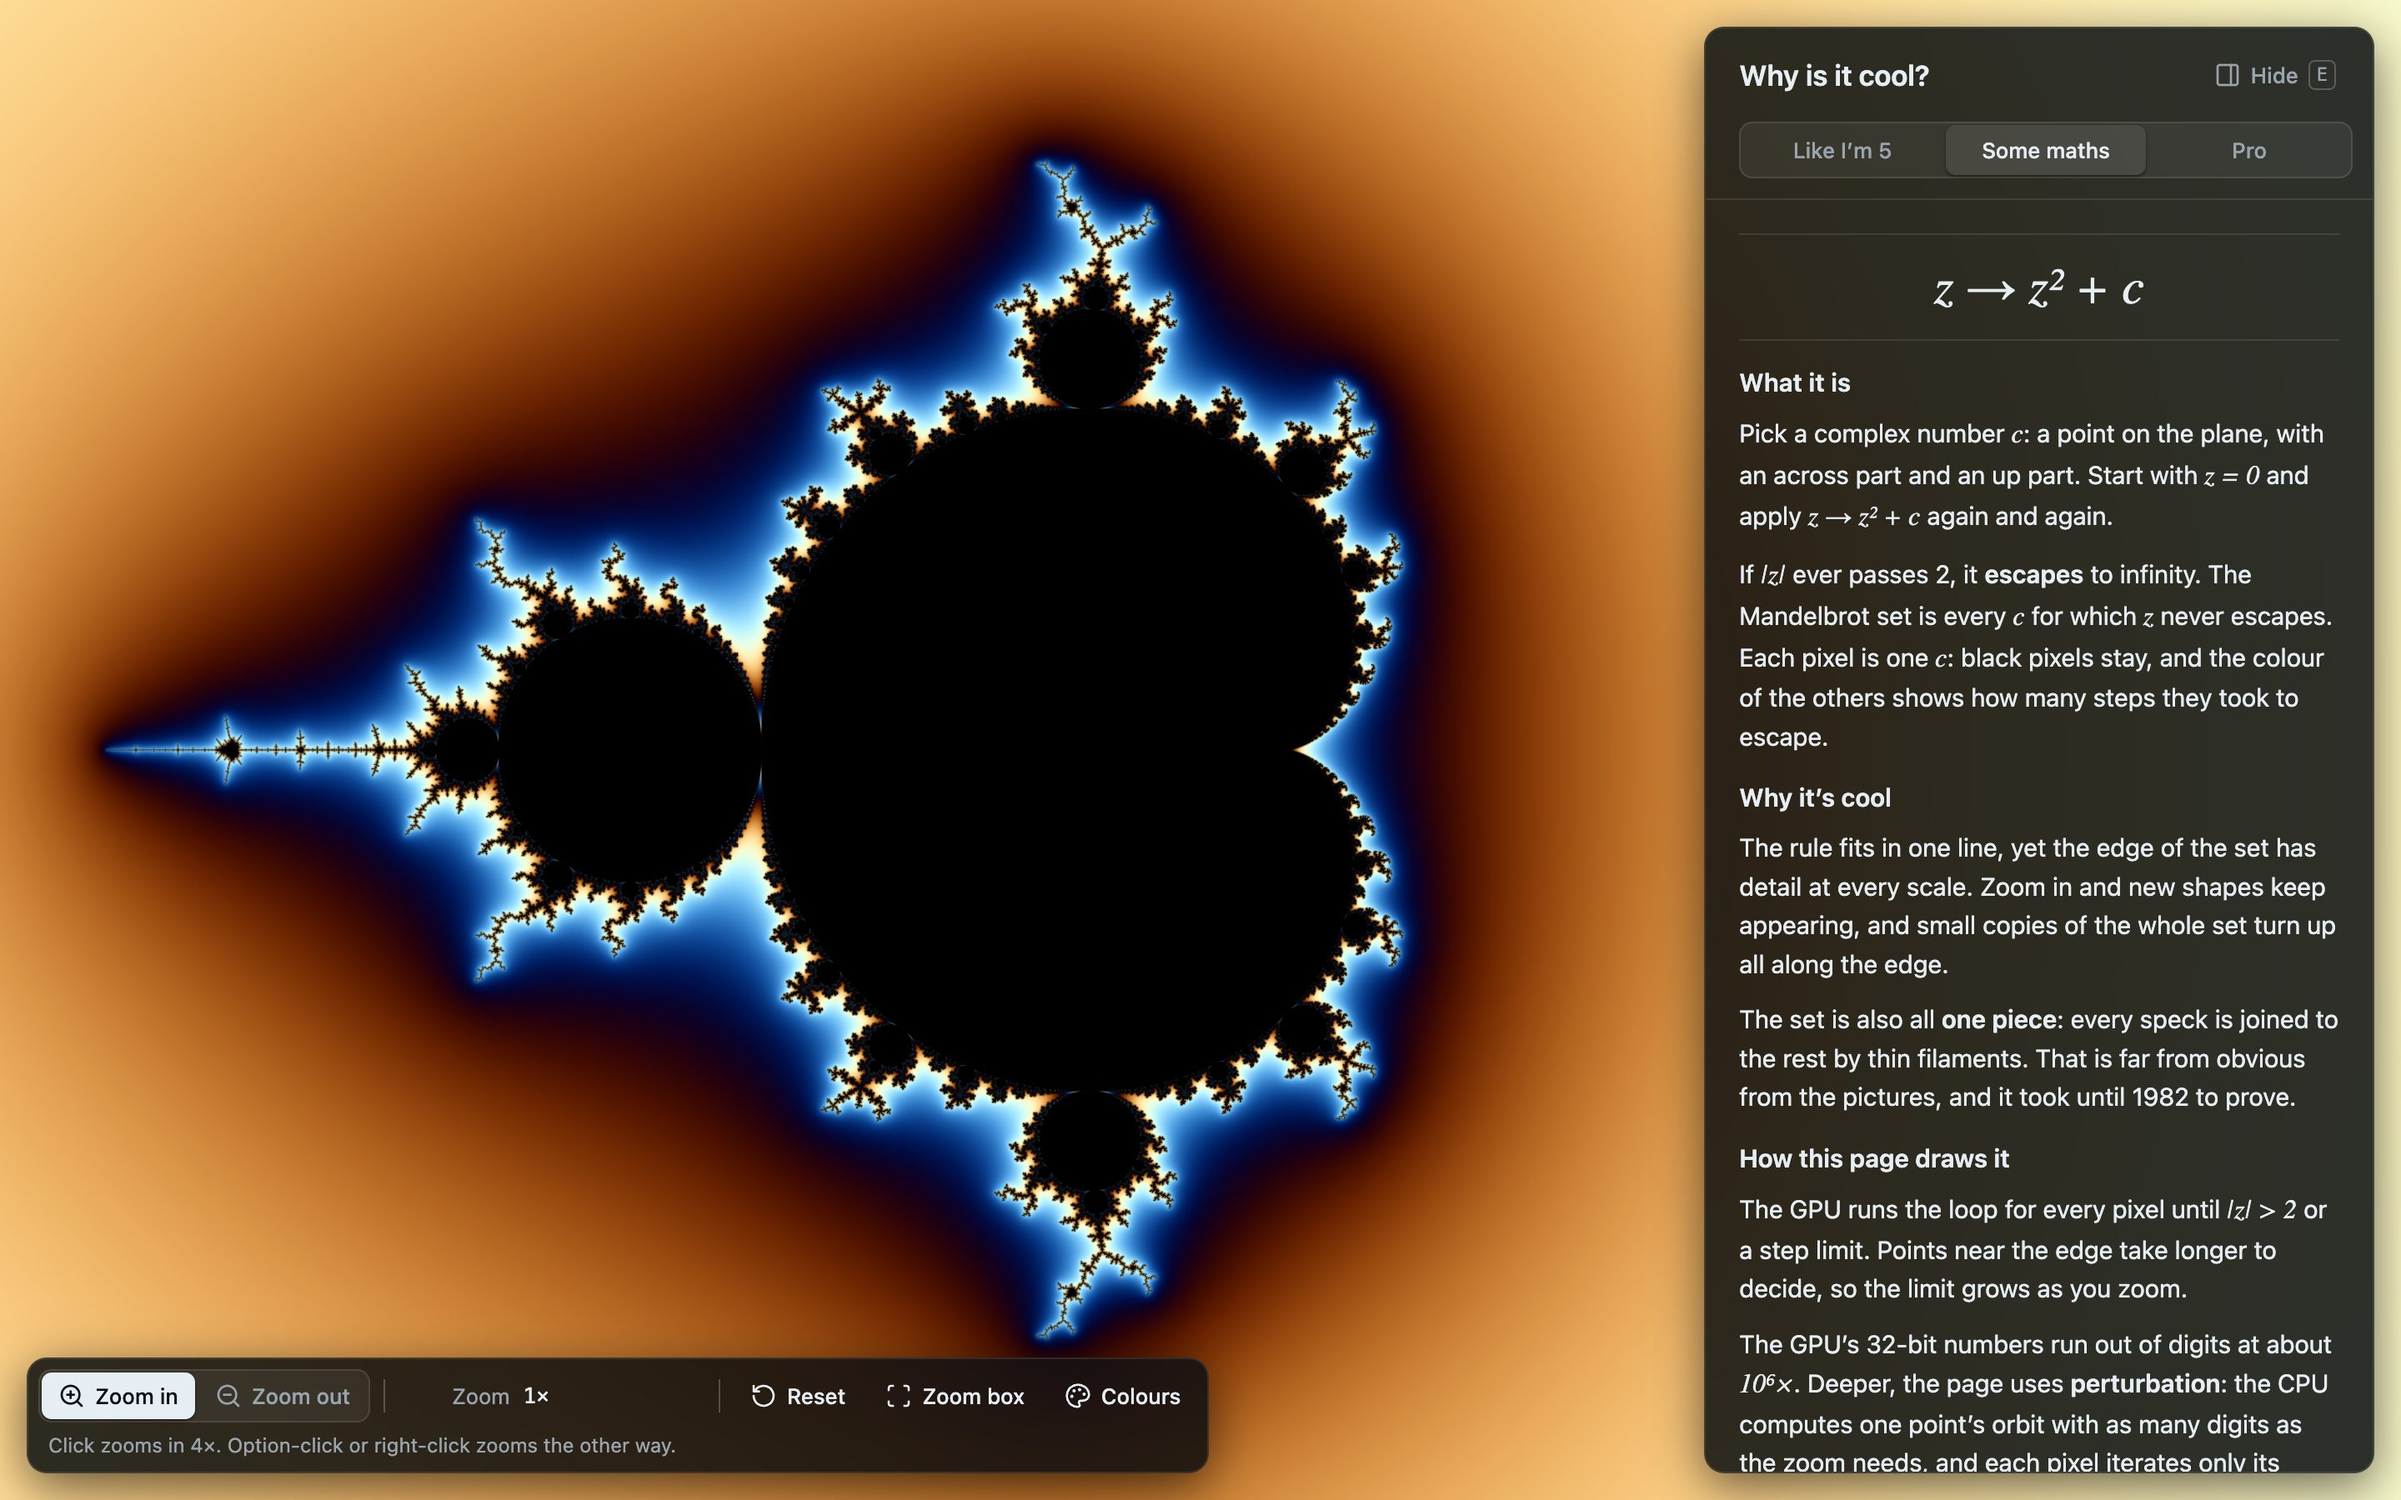
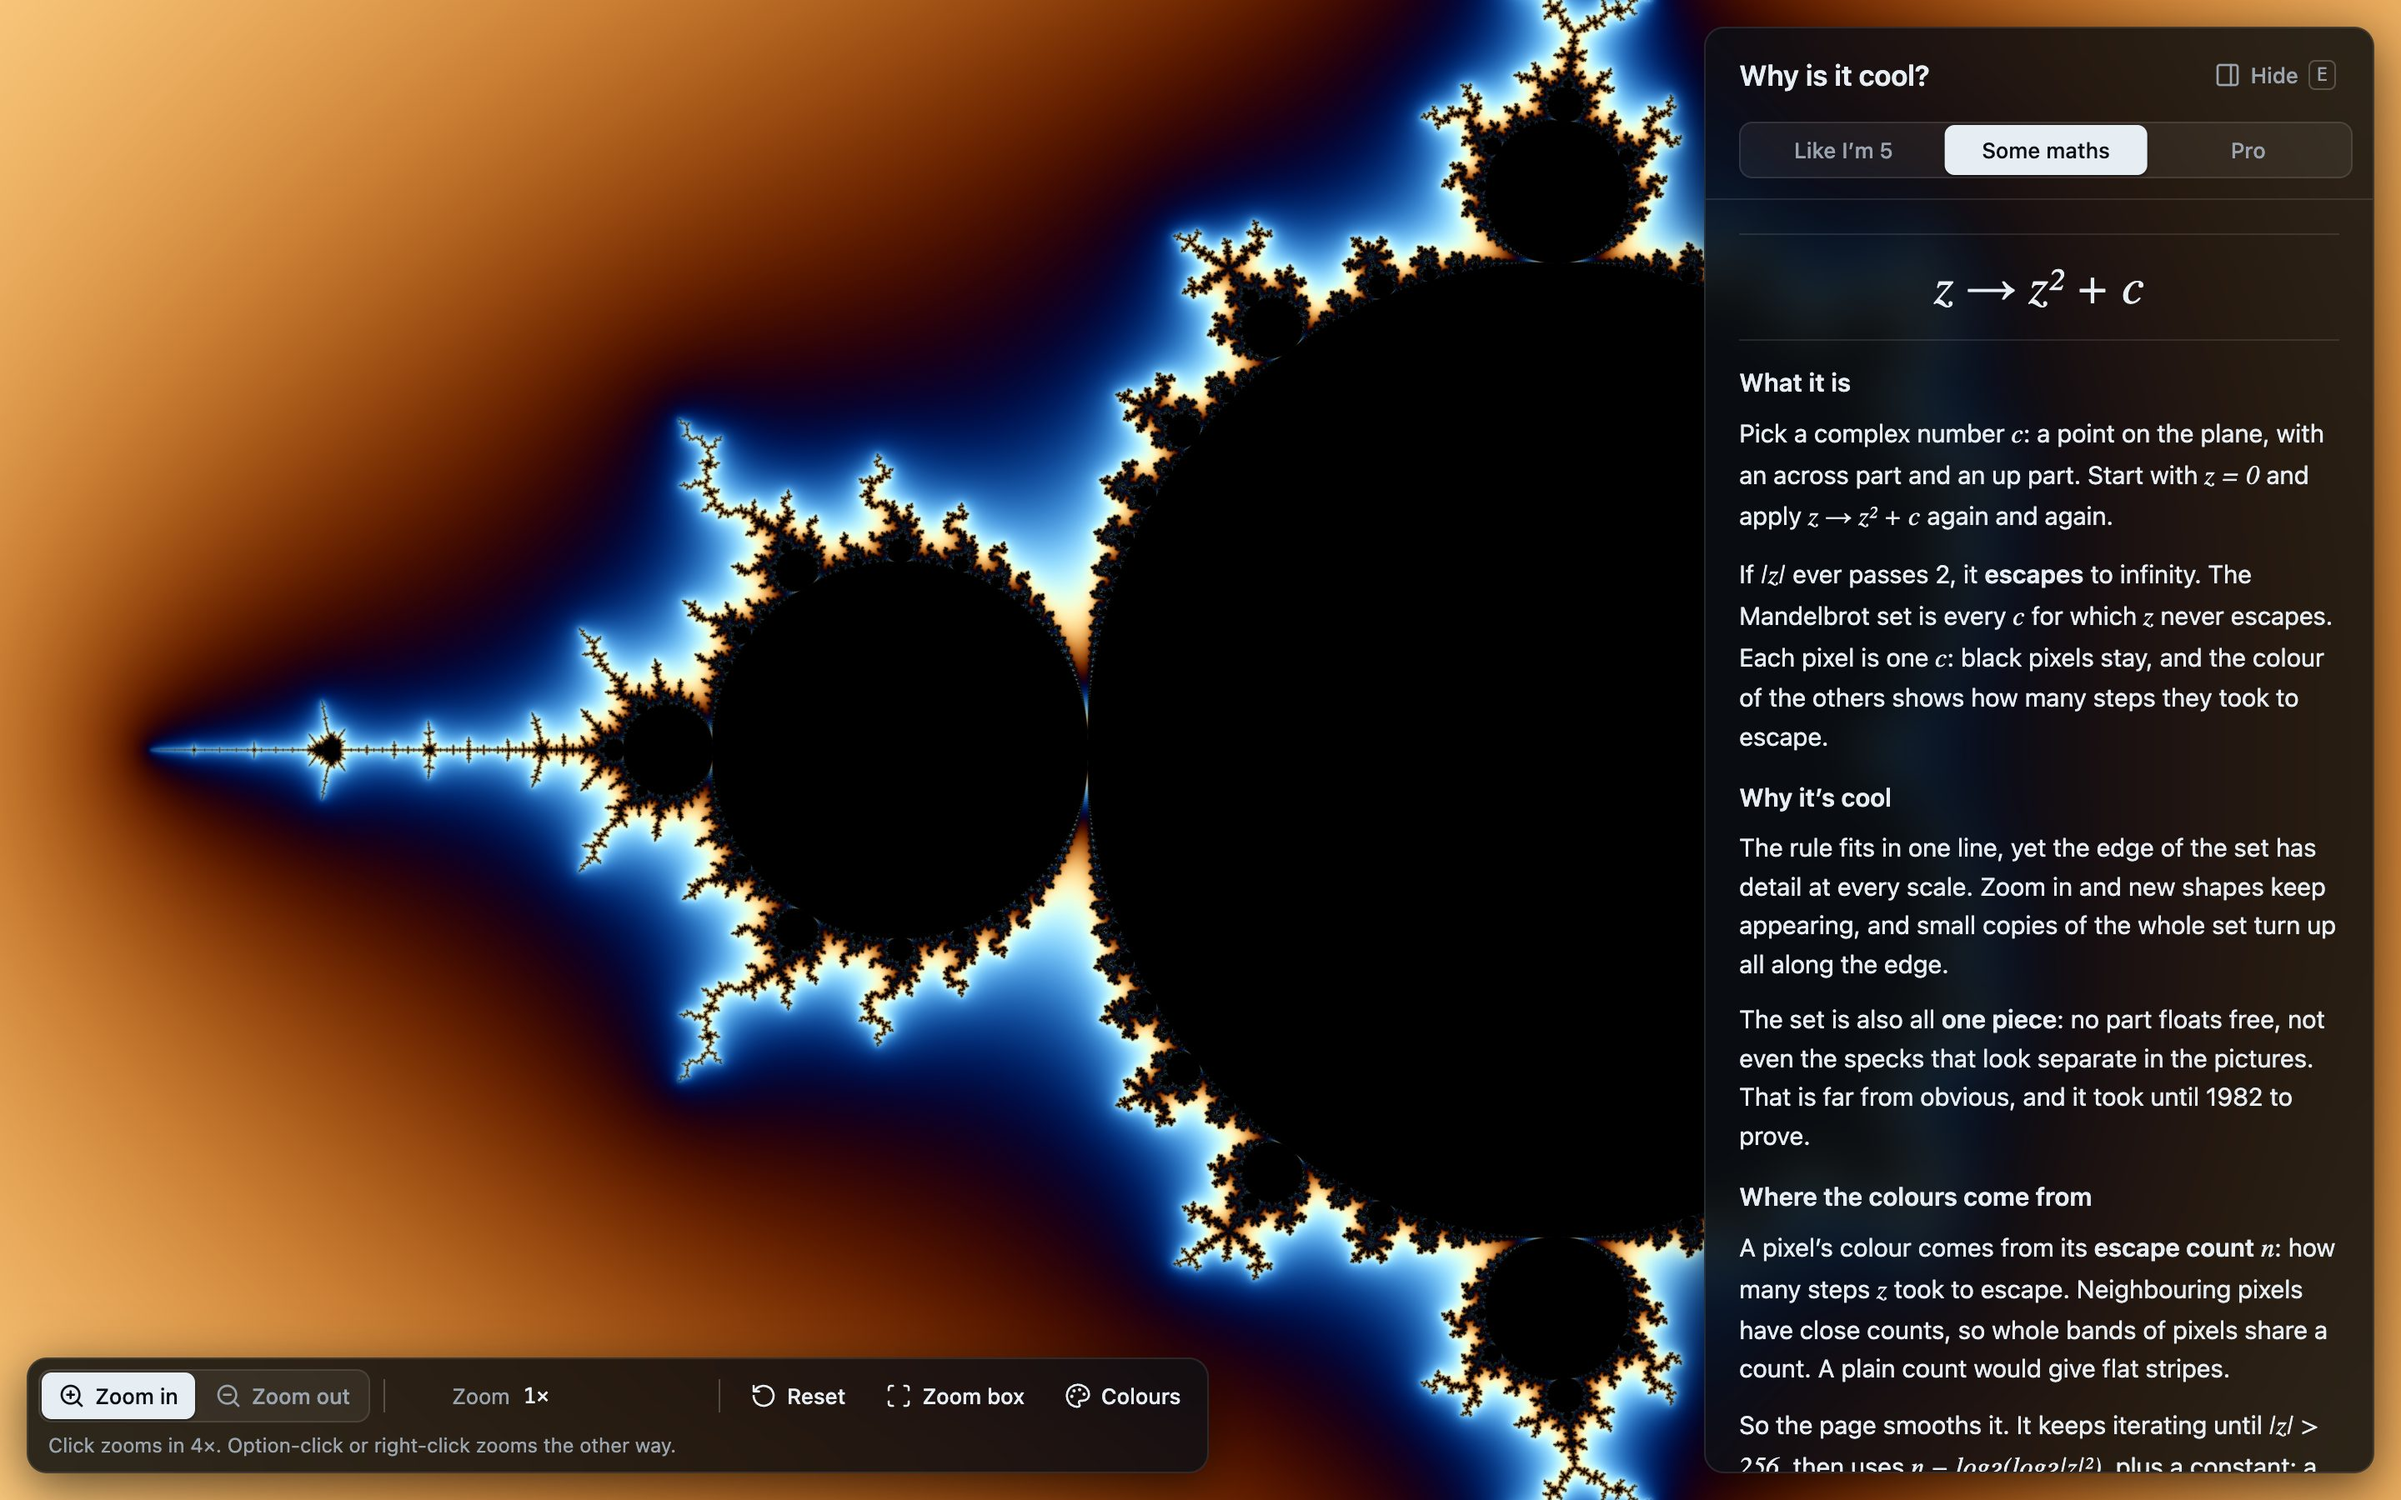
Keep the picture still when the explainer opens or closes
The whole set is now centred in the full window, and opening or closing
the explainer no longer shifts or rescales the view, so the zoom number
stays the same too. Keyboard zoom still centres on the area beside the
explainer.

diff --git a/gpu/src/lib.rs b/gpu/src/lib.rs
@@ -167,7 +167,7 @@ pub struct MandelSurface {
     auto_run: f64,
     /// A tap, drag or scroll stopped the automatic zoom.
     auto_stopped: bool,
-    /// Canvas points on the right that a panel covers; the whole set fits left of them.
+    /// Canvas points on the right that the explainer covers.
     free_right: f32,
     last_ms: Option<f64>,
     last_motion_ms: f64,
@@ -283,11 +283,12 @@ impl MandelSurface {
         self.ease_to(self.target.scaled_about(px, py, factor));
     }
 
-    /// The whole set, centred in the canvas left of `free_right`.
+    /// The whole set, centred in the canvas. It ignores the explainer, so opening
+    /// or closing it never moves or rescales the picture.
     fn home_view(&self) -> View {
-        let step = 3.2 / (self.size.0 - self.free_right).max(1.0) as f64;
+        let step = 3.2 / self.size.0.max(1.0) as f64;
         let (ax, ay) = self.anchor_f64;
-        View { cx: HOME.0 - ax + self.free_right as f64 * 0.5 * step, cy: HOME.1 - ay, step }
+        View { cx: HOME.0 - ax, cy: HOME.1 - ay, step }
     }
 
     /// Back to the whole set.
@@ -361,29 +362,10 @@ impl MandelSurface {
 
     /// A panel opens or closes: the whole set refits; any other view moves by
     /// half the panel's width, so what was centred in the free area stays centred.
+    /// The explainer's width over the canvas; keyboard zoom centres on the area
+    /// left of it.
     fn set_free_right(&mut self, free_right: f32) {
-        if free_right == self.free_right {
-            return;
-        }
-        let shift = (free_right - self.free_right) as f64 * 0.5;
-        let home = self.home_view();
-        let at_home = (self.target.cx - home.cx).abs() < home.step && (self.target.cy - home.cy).abs() < home.step && (self.target.step / home.step - 1.0).abs() < 1e-6;
         self.free_right = free_right;
-        if self.touched && at_home {
-            // The whole set stays whole: it eases to fit the new free area.
-            let home = self.home_view();
-            self.home_step = home.step;
-            self.ease_to(home);
-            return;
-        }
-        if self.touched {
-            self.view.cx += shift * self.view.step;
-            self.target.cx += shift * self.target.step;
-            if let Some(ease) = self.ease.as_mut() {
-                ease.from.cx += shift * ease.from.step;
-            }
-        }
-        self.refit();
     }
 
     fn refit(&mut self) {
@@ -1262,37 +1244,20 @@ mod tests {
     }
 
     #[test]
-    fn the_whole_set_centres_left_of_the_panel() {
+    fn opening_the_panel_never_moves_the_view() {
         let mut s = surface();
+        let home = s.target;
         s.set_free_right(400.0);
-        s.resize(1200.0, 800.0);
-        let (ax, _) = s.anchor_f64;
-        // The set's centre is in the middle of the 800 points left of the panel.
-        let (x, _) = s.plane_at(s.view, 400.0, 400.0);
-        assert!((x + ax - HOME.0).abs() < 1e-12);
-    }
-
-    #[test]
-    fn opening_the_panel_keeps_the_view_centred_in_the_free_area() {
-        let mut s = surface();
+        assert_eq!(s.target, home);
         s.click(300.0, 200.0, false);
         s.view = s.target;
         s.ease = None;
-        let before = s.plane_at(s.view, 400.0, 300.0);
+        let zoomed = s.target;
+        s.set_free_right(0.0);
+        assert_eq!((s.view, s.target), (zoomed, zoomed));
         s.set_free_right(400.0);
-        // The free area is now 400 points wide: its centre is at x = 200.
-        let after = s.plane_at(s.view, 200.0, 300.0);
-        assert!((before.0 - after.0).abs() < 1e-12 && (before.1 - after.1).abs() < 1e-12);
-    }
-
-    #[test]
-    fn opening_the_panel_refits_the_whole_set() {
-        let mut s = surface();
-        s.click(300.0, 200.0, false);
         s.reset();
-        s.set_free_right(400.0);
-        let home = s.home_view();
-        assert_eq!((s.target.cx, s.target.cy, s.target.step), (home.cx, home.cy, home.step));
+        assert_eq!(s.target, home);
     }
 
     #[test]
